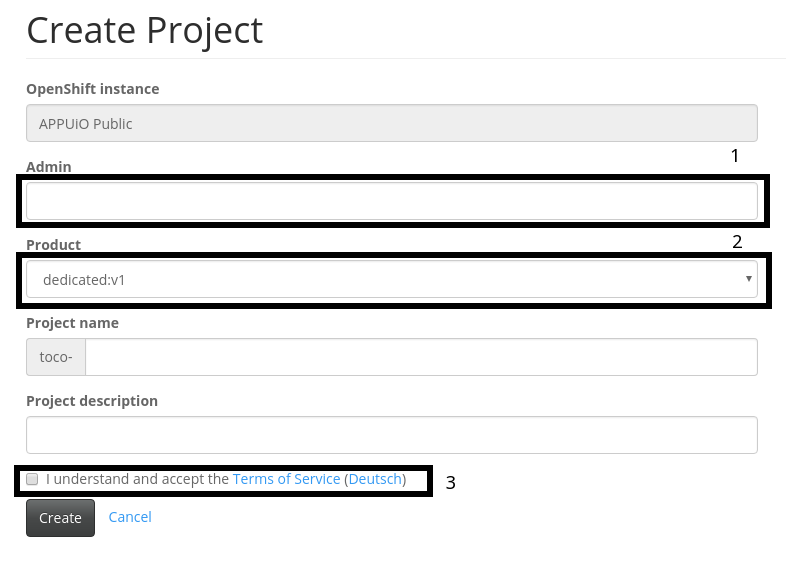
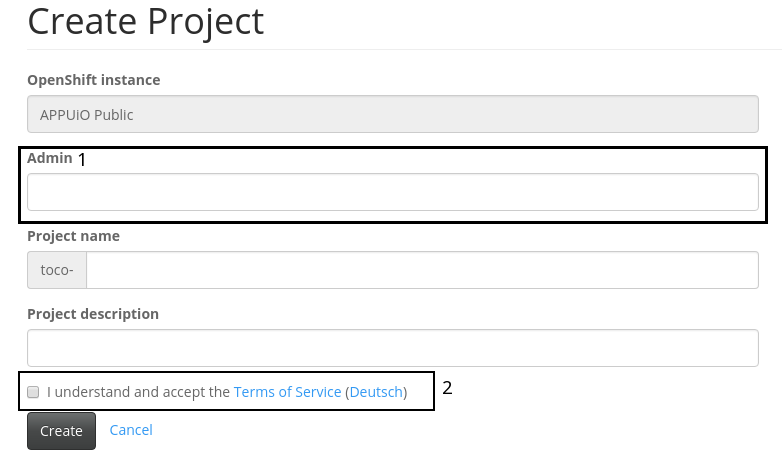
remove the product field

Changed region(s): [[0.0, 0.1474, 0.9821, 0.7368], [0.0, 0.7663, 0.5831, 0.9726], [0.0307, 0.0, 0.3376, 0.0884]]

diff --git a/devops/openshift/create_nice_installation.rst b/devops/openshift/create_nice_installation.rst
@@ -16,8 +16,6 @@ Step by Step Instructions
     
     #. The name of your account
 
-    #. Has to be **dedicated**, else you can't create the project.
-
     #. **CHECK**
 
     Go to the `Create Project`_ page of VSHN and create a new project [#f1]_.
